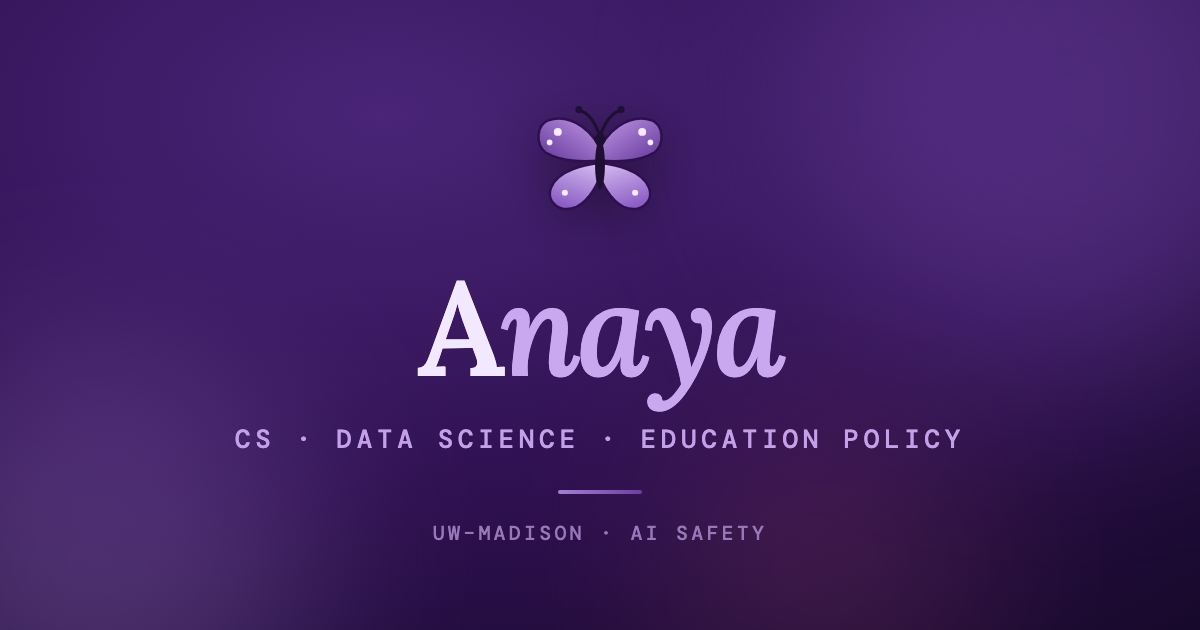
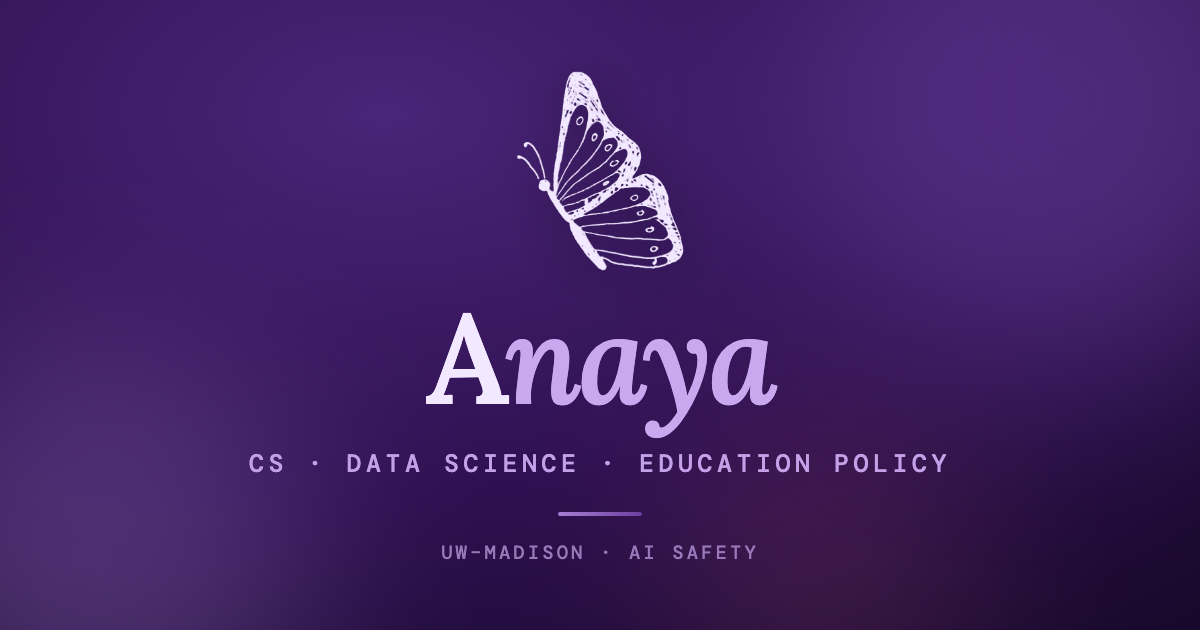
Use hand-drawn butterfly for share image, hero, and footers
- Clean the scanned drawing into transparent PNGs — butterfly-dark.png (dark
  ink for light backgrounds) and butterfly-light.png (light ink for dark)
- Rebuild the 1200x630 share image around the hand-drawn butterfly
- Swap the homepage hero and every footer to the drawing, theme-aware so the
  right ink shows in light vs dark mode
- Keep the crisp vector monarch for the tiny favicon and nav logo

diff --git a/index.html b/index.html
@@ -420,6 +420,14 @@
     .d3 { transition-delay: 0.30s; }
     .d4 { transition-delay: 0.42s; }
 
+    /* ── HAND-DRAWN BUTTERFLY (hero + footer) ── */
+    .hero-fly-img { height: 92px; width: auto; }
+    .foot-fly { height: 26px; width: auto; vertical-align: middle; margin-right: 0.4rem; opacity: 0.6; }
+    .ink-dark { display: inline-block; }
+    .ink-light { display: none; }
+    [data-theme="dark"] .ink-dark { display: none; }
+    [data-theme="dark"] .ink-light { display: inline-block; }
+
     /* ── REDUCED MOTION ── */
     @media (prefers-reduced-motion: reduce) {
       *, *::before, *::after {
@@ -560,23 +568,8 @@
   <section class="sec" id="s-hero">
     <div class="inner" style="text-align:center;">
       <div class="hero-fly-anchor" id="hero-fly-anchor">
-        <svg width="76" height="76" viewBox="0 0 64 64" xmlns="http://www.w3.org/2000/svg">
-          <defs>
-            <linearGradient id="fwGh" x1="0.1" y1="0.1" x2="0.9" y2="0.9"><stop offset="0" stop-color="#9b6ad4"/><stop offset="1" stop-color="#4a2578"/></linearGradient>
-            <linearGradient id="hwGh" x1="0.2" y1="0" x2="0.6" y2="1"><stop offset="0" stop-color="#b98fe0"/><stop offset="1" stop-color="#6b3fa0"/></linearGradient>
-          </defs>
-          <g stroke="#2e1050" stroke-width="1.1" stroke-linejoin="round">
-            <g id="wRh"><path fill="url(#fwGh)" d="M31,30 C34,20 44,12 54,15 C59,17 60,25 55,29 C48,33 38,33 31,32 Z"/><path fill="url(#hwGh)" d="M31,33 C38,34 50,36 53,44 C55,50 49,55 42,52 C36,49 33,42 31,37 Z"/></g>
-            <use href="#wRh" transform="matrix(-1,0,0,1,64,0)"/>
-          </g>
-          <g fill="#f0e4ff"><circle cx="50" cy="20" r="1.7"/><circle cx="53.5" cy="24.5" r="1.2"/><circle cx="14" cy="20" r="1.7"/><circle cx="10.5" cy="24.5" r="1.2"/><circle cx="47" cy="46" r="1.3"/><circle cx="17" cy="46" r="1.3"/></g>
-          <ellipse cx="32" cy="34" rx="2.1" ry="10.5" fill="#2e1050"/>
-          <circle cx="32" cy="23" r="2.4" fill="#2e1050"/>
-          <path d="M32,22 C30,16 27,12 23.5,11" fill="none" stroke="#2e1050" stroke-width="1.3" stroke-linecap="round"/>
-          <path d="M32,22 C34,16 37,12 40.5,11" fill="none" stroke="#2e1050" stroke-width="1.3" stroke-linecap="round"/>
-          <circle cx="23" cy="10.5" r="1.5" fill="#2e1050"/>
-          <circle cx="41" cy="10.5" r="1.5" fill="#2e1050"/>
-        </svg>
+        <img class="hero-fly-img ink-dark" src="butterfly-dark.png" alt="Hand-drawn butterfly" width="78" height="92">
+        <img class="hero-fly-img ink-light" src="butterfly-light.png" alt="" aria-hidden="true" width="78" height="92">
       </div>
       <h1 class="site-name">A<em>naya</em></h1>
       <div class="tagline">CS · Data Science · Education Policy · UW–Madison · Sophomore</div>
@@ -673,18 +666,7 @@
   </section>
 
   <footer>
-    <svg width="22" height="22" viewBox="0 0 64 64" style="vertical-align:middle;margin-right:0.4rem;opacity:0.55;" xmlns="http://www.w3.org/2000/svg">
-      <g stroke="#6b3fa0" stroke-width="1" stroke-linejoin="round">
-        <g id="wRfoot"><path fill="#a67fd4" d="M31,30 C34,20 44,12 54,15 C59,17 60,25 55,29 C48,33 38,33 31,32 Z"/><path fill="#c4a0e8" d="M31,33 C38,34 50,36 53,44 C55,50 49,55 42,52 C36,49 33,42 31,37 Z"/></g>
-        <use href="#wRfoot" transform="matrix(-1,0,0,1,64,0)"/>
-      </g>
-      <ellipse cx="32" cy="34" rx="2.1" ry="10.5" fill="#6b3fa0"/>
-      <circle cx="32" cy="23" r="2.4" fill="#6b3fa0"/>
-      <path d="M32,22 C30,16 27,12 23.5,11" fill="none" stroke="#6b3fa0" stroke-width="1.2" stroke-linecap="round"/>
-      <path d="M32,22 C34,16 37,12 40.5,11" fill="none" stroke="#6b3fa0" stroke-width="1.2" stroke-linecap="round"/>
-      <circle cx="23" cy="10.5" r="1.4" fill="#6b3fa0"/>
-      <circle cx="41" cy="10.5" r="1.4" fill="#6b3fa0"/>
-    </svg>
+    <img class="foot-fly ink-dark" src="butterfly-dark.png" alt="" aria-hidden="true"><img class="foot-fly ink-light" src="butterfly-light.png" alt="" aria-hidden="true">
     anaya · uw–madison · <a href="contact.html">say hi</a>
   </footer>
 

diff --git a/contact.html b/contact.html
@@ -86,7 +86,7 @@
       <a href="https://www.linkedin.com/in/anaya-mandal/" target="_blank" rel="noopener noreferrer" class="lcard rv d1"><span class="l-icon">💼</span><div class="l-name">LinkedIn</div><div class="l-handle">in/anaya-mandal</div><div class="l-arrow">Connect →</div></a>
     </div>
   </div>
-  <footer>anaya · uw–madison · <a href="contact.html">say hi</a></footer>
+  <footer><img class="foot-fly ink-dark" src="butterfly-dark.png" alt="" aria-hidden="true"><img class="foot-fly ink-light" src="butterfly-light.png" alt="" aria-hidden="true">anaya · uw–madison · <a href="contact.html">say hi</a></footer>
   <script>
     function toggleTheme() {
       const d = document.documentElement.getAttribute('data-theme') === 'dark';

diff --git a/interests.html b/interests.html
@@ -85,7 +85,7 @@
       <p class="rv d4">A lot of who I am lives outside my resume — in kitchens and thrift racks, in half-planned trips and whatever song is stuck in my head that week. I think the small enthusiasms tell you as much about a person as the big ones.</p>
     </div>
   </div>
-  <footer>anaya · uw–madison · <a href="contact.html">say hi</a></footer>
+  <footer><img class="foot-fly ink-dark" src="butterfly-dark.png" alt="" aria-hidden="true"><img class="foot-fly ink-light" src="butterfly-light.png" alt="" aria-hidden="true">anaya · uw–madison · <a href="contact.html">say hi</a></footer>
   <script>
     function toggleTheme() {
       const d = document.documentElement.getAttribute('data-theme') === 'dark';

diff --git a/reading.html b/reading.html
@@ -101,7 +101,7 @@
       </div></div></div>
     </div>
   </div>
-  <footer>anaya · uw–madison · <a href="contact.html">say hi</a></footer>
+  <footer><img class="foot-fly ink-dark" src="butterfly-dark.png" alt="" aria-hidden="true"><img class="foot-fly ink-light" src="butterfly-light.png" alt="" aria-hidden="true">anaya · uw–madison · <a href="contact.html">say hi</a></footer>
   <script>
     function toggleTheme() {
       const d = document.documentElement.getAttribute('data-theme') === 'dark';

diff --git a/projects.html b/projects.html
@@ -103,7 +103,7 @@
       </div>
     </div>
   </div>
-  <footer>anaya · uw–madison · <a href="contact.html">say hi</a></footer>
+  <footer><img class="foot-fly ink-dark" src="butterfly-dark.png" alt="" aria-hidden="true"><img class="foot-fly ink-light" src="butterfly-light.png" alt="" aria-hidden="true">anaya · uw–madison · <a href="contact.html">say hi</a></footer>
   <script>
     function toggleTheme() {
       const d = document.documentElement.getAttribute('data-theme') === 'dark';

diff --git a/blog.html b/blog.html
@@ -88,7 +88,7 @@
       </div>
     </div>
   </div>
-  <footer>anaya · uw–madison · <a href="contact.html">say hi</a></footer>
+  <footer><img class="foot-fly ink-dark" src="butterfly-dark.png" alt="" aria-hidden="true"><img class="foot-fly ink-light" src="butterfly-light.png" alt="" aria-hidden="true">anaya · uw–madison · <a href="contact.html">say hi</a></footer>
   <script>
     function toggleTheme() {
       const d = document.documentElement.getAttribute('data-theme') === 'dark';

diff --git a/now.html b/now.html
@@ -92,7 +92,7 @@
       </ul>
     </div>
   </div>
-  <footer>anaya · uw–madison · <a href="contact.html">say hi</a></footer>
+  <footer><img class="foot-fly ink-dark" src="butterfly-dark.png" alt="" aria-hidden="true"><img class="foot-fly ink-light" src="butterfly-light.png" alt="" aria-hidden="true">anaya · uw–madison · <a href="contact.html">say hi</a></footer>
   <script>
     function toggleTheme() {
       const d = document.documentElement.getAttribute('data-theme') === 'dark';

diff --git a/shared.css b/shared.css
@@ -244,3 +244,10 @@ footer a { color: var(--violet); text-decoration: none; }
   }
   .rv { opacity: 1 !important; transform: none !important; }
 }
+
+/* ── HAND-DRAWN BUTTERFLY (footer) ── */
+.foot-fly { height: 24px; width: auto; vertical-align: middle; margin-right: 0.45rem; opacity: 0.6; }
+.ink-dark { display: inline-block; }
+.ink-light { display: none; }
+[data-theme="dark"] .ink-dark { display: none; }
+[data-theme="dark"] .ink-light { display: inline-block; }

diff --git a/about.html b/about.html
@@ -106,7 +106,7 @@
     </div>
   </div>
 
-  <footer>anaya · uw–madison · <a href="contact.html">say hi</a></footer>
+  <footer><img class="foot-fly ink-dark" src="butterfly-dark.png" alt="" aria-hidden="true"><img class="foot-fly ink-light" src="butterfly-light.png" alt="" aria-hidden="true">anaya · uw–madison · <a href="contact.html">say hi</a></footer>
 
   <script>
     function toggleTheme() {
